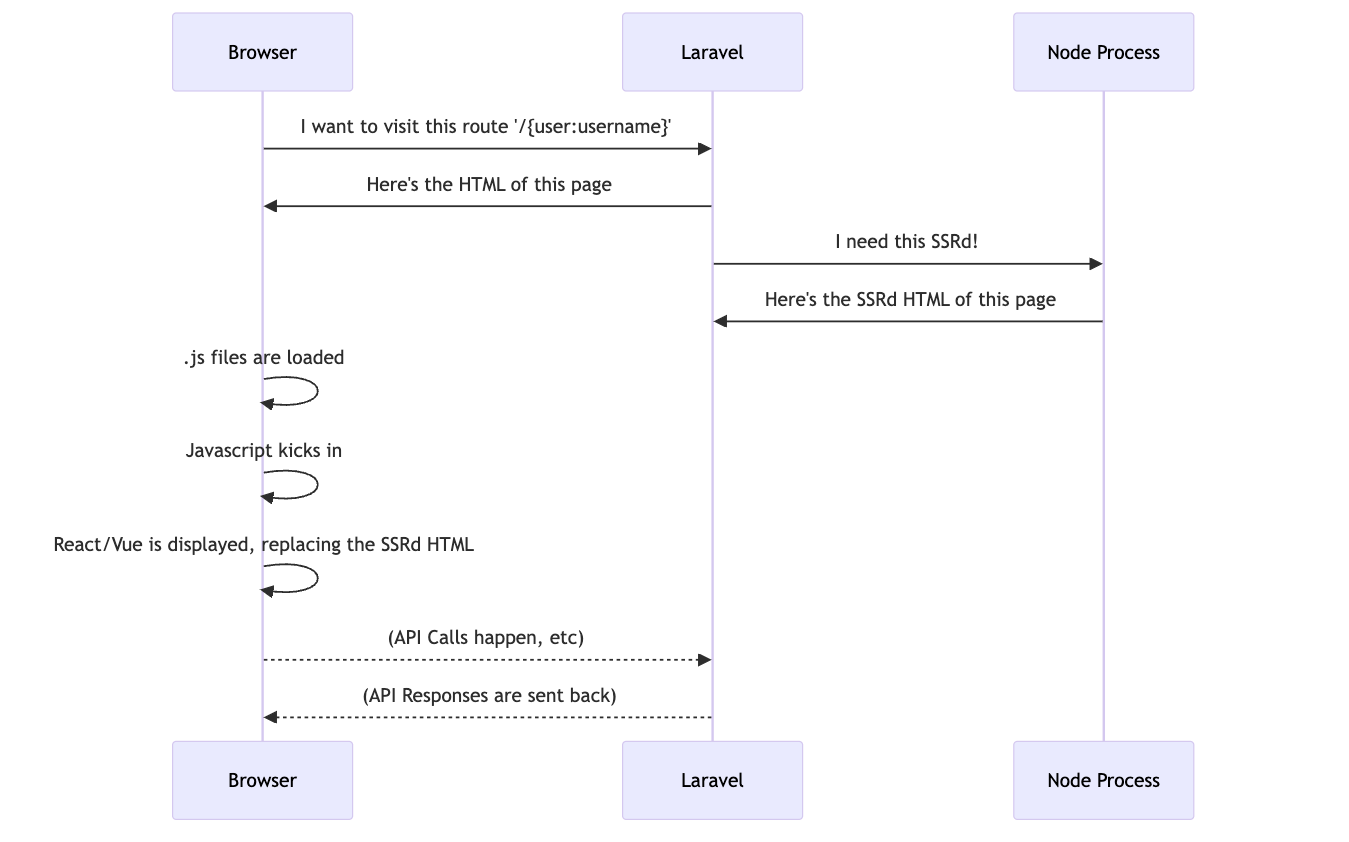
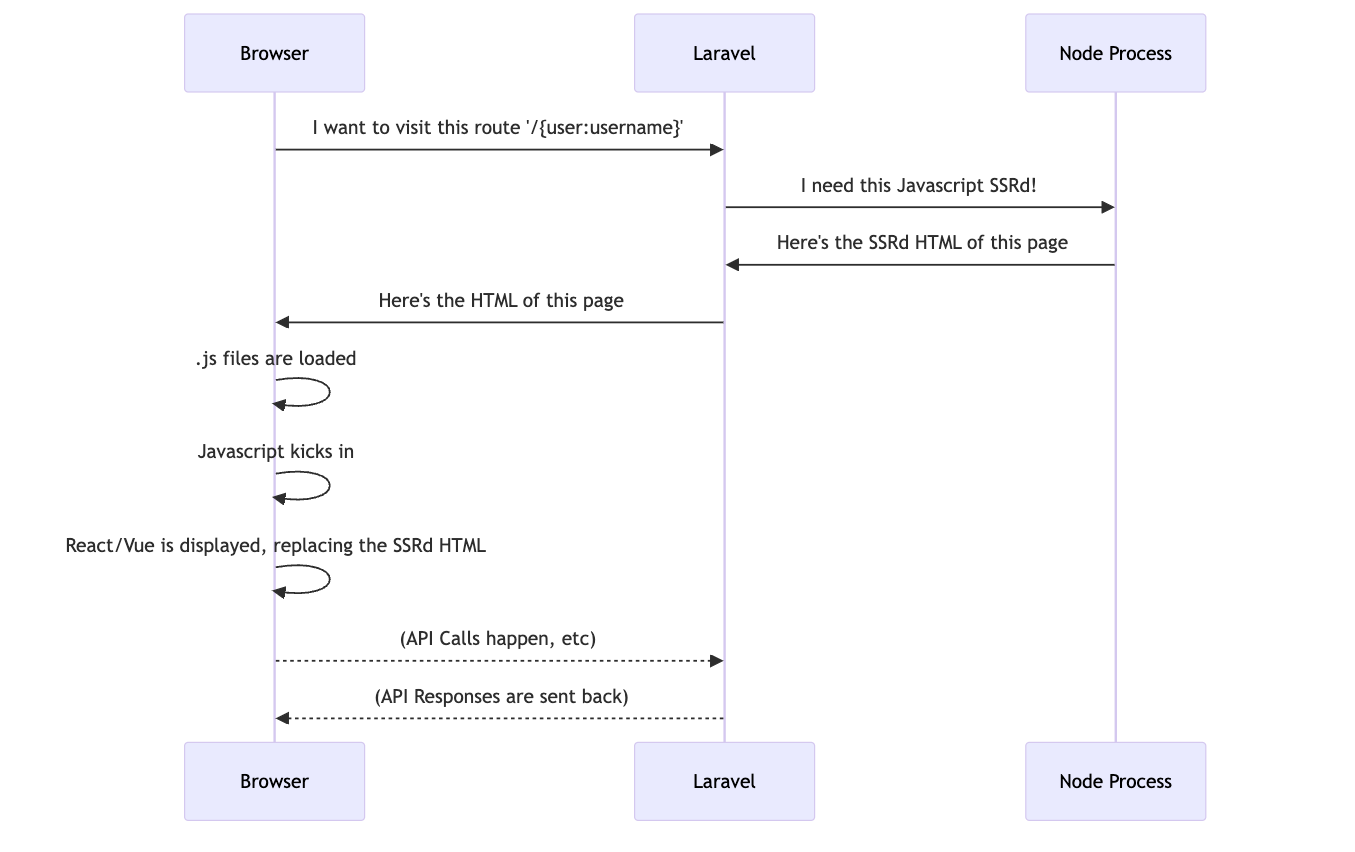
up

diff --git a/docs/tools/visit.md b/docs/tools/visit.md
@@ -1,4 +1,4 @@
-# The visit(url) function
+# The visit function
 
 Much like [Inertia.js' Protocol](https://inertiajs.com/the-protocol), you can use the `visit(url, options = { ... })` function to navigate to a new page that uses Laravext. This creates a smooth SPA experience, as it doesn't reload the page. If the version of the application changes between visits, or if the view set for that route is different from the one that was previously loaded, an usual page visit will happen.
 
@@ -19,7 +19,7 @@ The options parameter is an object that defaults to:
 
 #### **React**
 
-`Link.jsx` (this is an example of a custom Link component that uses the `visit(url)` function, and not the actual implementation of the [Link component from Laravext](/tools/link-component)):
+`Link.jsx` (this is an example of a custom Link component that uses the `visit` function, and not the actual implementation of the [Link component from Laravext](/tools/link-component)):
 
 ```jsx
 import { visit } from '@laravext/react/router';
@@ -43,7 +43,7 @@ export default  ({ routeName, href, className = '', children }) => {
 
 #### **Vue**
 
-`Link.vue` (this is an example of a custom Link component that uses the `visit(url)` function, and not the actual implementation of the [Link component from Laravext](/tools/link-component)):
+`Link.vue` (this is an example of a custom Link component that uses the `visit` function, and not the actual implementation of the [Link component from Laravext](/tools/link-component)):
 
 ```vue
 <script setup>
@@ -79,4 +79,4 @@ let classes = props.classes ?? '';
 
 <!-- tabs:end -->
 
-<sup>⚠Important note⚠: it's not recomendable to use the `visit(url)` function to navigate to a page that doesn't use Laravext. This is due to the function first checking if the page is a Laravext page, and if it's not, it'll do a redirect. As a side effect this will cause a double page visit (the first when the function makes a get request, then the actual redirect), which could degrade the user experience, so you should use a standard anchor tag (`<a href="...">`) instead if you know it's an external link or a non-Laravext page.</sup>
+<sup>⚠Important note⚠: it's not recomendable to use the `visit` function to navigate to a page that doesn't use Laravext. This is due to the function first checking if the page is a Laravext page, and if it's not, it'll do a redirect. As a side effect this will cause a double page visit (the first when the function makes a get request, then the actual redirect), which could degrade the user experience, so you should use a standard anchor tag (`<a href="...">`) instead if you know it's an external link or a non-Laravext page.</sup>

diff --git a/docs/concepts/laravext-lifecycle.md b/docs/concepts/laravext-lifecycle.md
@@ -1,21 +1,31 @@
 # Laravext Lifecycle
 
+This section will explain how the lifecycle of a Laravel application using Laravext works.
+
 ## First Visit
 
-```mermaid
-sequenceDiagram
-    Browser->>Laravel: I want to visit this route now '/{user:username}/{article:slug}'
-    Laravel->>Browser: Here's the page, but it's not ready yet
-    Browser->>Browser: Ok... Loading... (First Visit Happens)
-```
+This is the first visit to your application, and it can be divided into two scenarios: with and without Javascript Runtime SSR. Laravel will return a blade view that contains a `@nexus`/`@[start/end]Nexus`/`@strand`/`@[start/end]Strand` directive, which will be replaced by that URI's component.
 
+### First Visit without Javascript Runtime SSR
+
+![first-visit-without-javascript-runtime-ssr](../images/network-diagrams/first-visit.png)
 
 ### First Visit with Javascript Runtime SSR
 
+In this case, before Laravel returns the HTML, it will make use of a Node Process to render the page and the React/Vue components, for user experience and SEO purposes.
 
+![first-visit-with-javascript-runtime-ssr](../images/network-diagrams/first-visit-with-js-runtime-ssr.png)
 
 ## Subsequent Visits
 
+After the first visit, whenever a user navigates to another page through the [visit function](/tools/visit) (which cointains headers to indicate that it's a visit request, with the current version and blade view), the response will be a json telling the client either the new component that it should render, or that it's supposed to do a page visit, either because the version is outdated or because the blade view is a different one.
+
 ### Render
 
+![visit-render](../images/network-diagrams/visit-render.png)
+
 ### Redirect
+
+![visit-redirect](../images/network-diagrams/visit-redirect.png)
+
+<sup>**Note:** In case you're curious, these diagrams were made with Mermaid, and are available at the [Laravext Repository, in docs/images/network-diagrams](https://github.com/ArthurYdalgo/laravext/tree/main/docs/images/network-diagrams)

diff --git a/docs/quickstart.md b/docs/quickstart.md
@@ -378,6 +378,6 @@ You're now ready to start creating your project using the laravext router
 
 ![Our princess is in another castle!](/images/memes/our-princess-is-in-another-castle.png)
 
-<sup>**Credits**: By Nintendo - <a rel="nofollow" class="external free" href="https://www.mariowiki.com/File:Mushroom_Retainer_SMB1_W1-4_rescued.png">https://www.mariowiki.com/File:Mushroom_Retainer_SMB1_W1-4_rescued.png</a>, <a href="//en.wikipedia.org/wiki/File:Super_Mario_Bros_Princess_Is_In_Another_Castle_Quote.png" title="Fair use of copyrighted material in the context of Our princess is in another castle!">Fair use</a>, <a href="https://en.wikipedia.org/w/index.php?curid=76055658">Link</a> (if any of Nintendo's lawyer end up here, please just let me know that I'll remove this image, no need to sue me)<sub>
+<sup>**Credits**: By Nintendo - <a rel="nofollow" class="external free" href="https://www.mariowiki.com/File:Mushroom_Retainer_SMB1_W1-4_rescued.png">https://www.mariowiki.com/File:Mushroom_Retainer_SMB1_W1-4_rescued.png</a>, <a href="//en.wikipedia.org/wiki/File:Super_Mario_Bros_Princess_Is_In_Another_Castle_Quote.png" title="Fair use of copyrighted material in the context of Our princess is in another castle!">Fair use</a>, <a href="https://en.wikipedia.org/w/index.php?curid=76055658">Link</a> (if any of Nintendo's lawyers end up here, please just let me know that I'll remove this image, no need to sue me)<sub>
 
 Check the [Server Side Rendering](/server-side-rendering) section for more details on how to use it.

diff --git a/docs/_sidebar.md b/docs/_sidebar.md
@@ -7,6 +7,7 @@
 - [Concepts](concepts/router.md)
     - [File Conventions](concepts/file-conventions.md)
     - [Laravext Prop](concepts/laravext-prop.md)
+    - [Laravext Lifecycle](concepts/laravext-lifecycle.md)
     - [Router](concepts/router.md)
 - [Tools](tools/blade-directives.md)
     - [Routing](tools/routing.md)
@@ -14,7 +15,7 @@
     - [Shared Props](tools/shared-props.md)
     - [Head Component](tools/head-component.md)
     - [Link Component](tools/link-component.md)
-    - [The `visit(url)` function](tools/visit.md)
+    - [The `visit` function](tools/visit.md)
     - [Blade Directives](tools/blade-directives.md)
 - [Server Side Rendering](server-side-rendering.md)
 - [Examples](examples.md)

diff --git a/docs/images/network-diagrams/first-visit-with-js-runtime-ssr.md b/docs/images/network-diagrams/first-visit-with-js-runtime-ssr.md
@@ -1,10 +1,11 @@
 ```mermaid
 sequenceDiagram
     Browser->>Laravel: I want to visit this route '/{user:username}'
-    Laravel->>Browser: Here's the HTML of this page
 
-    Laravel->>Node Process: I need this SSRd!
+    Laravel->>Node Process: I need this Javascript SSRd!
     Node Process->>Laravel: Here's the SSRd HTML of this page
+
+    Laravel->>Browser: Here's the HTML of this page
 
     Browser->>Browser: .js files are loaded
     Browser->>Browser: Javascript kicks in

diff --git a/docs/server-side-rendering.md b/docs/server-side-rendering.md
@@ -15,7 +15,6 @@ The blade engine based methods you can use are througly explained in the [Tools/
 ## Javascript Runtime
 
 
-
 <!-- tabs:start -->
 
 #### **React**

diff --git a/docs/images/network-diagrams/README.md b/docs/images/network-diagrams/README.md
@@ -1,0 +1,3 @@
+# Network Diagrams
+
+This directory contains the Mermaid diagrams used in the documentation.
